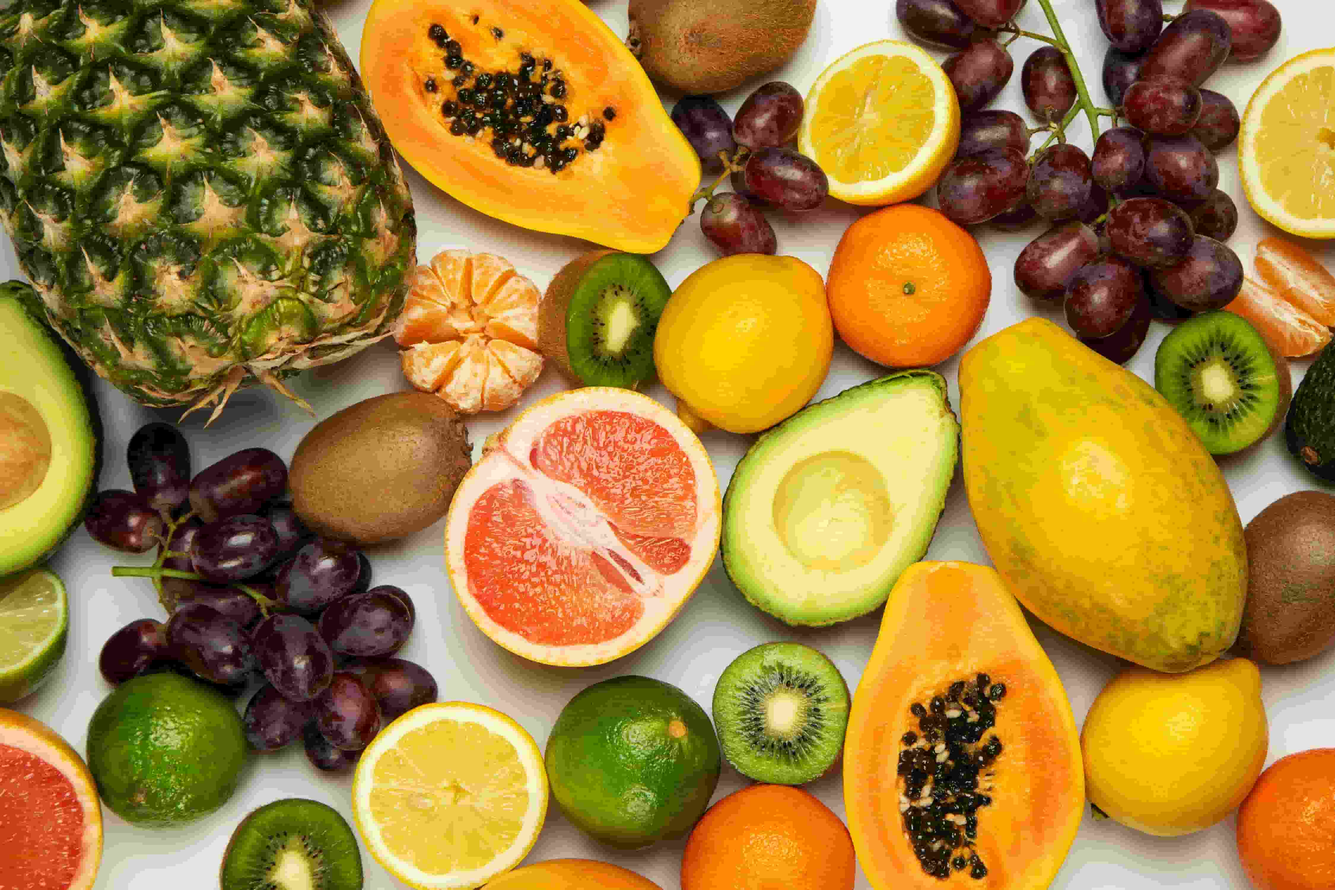
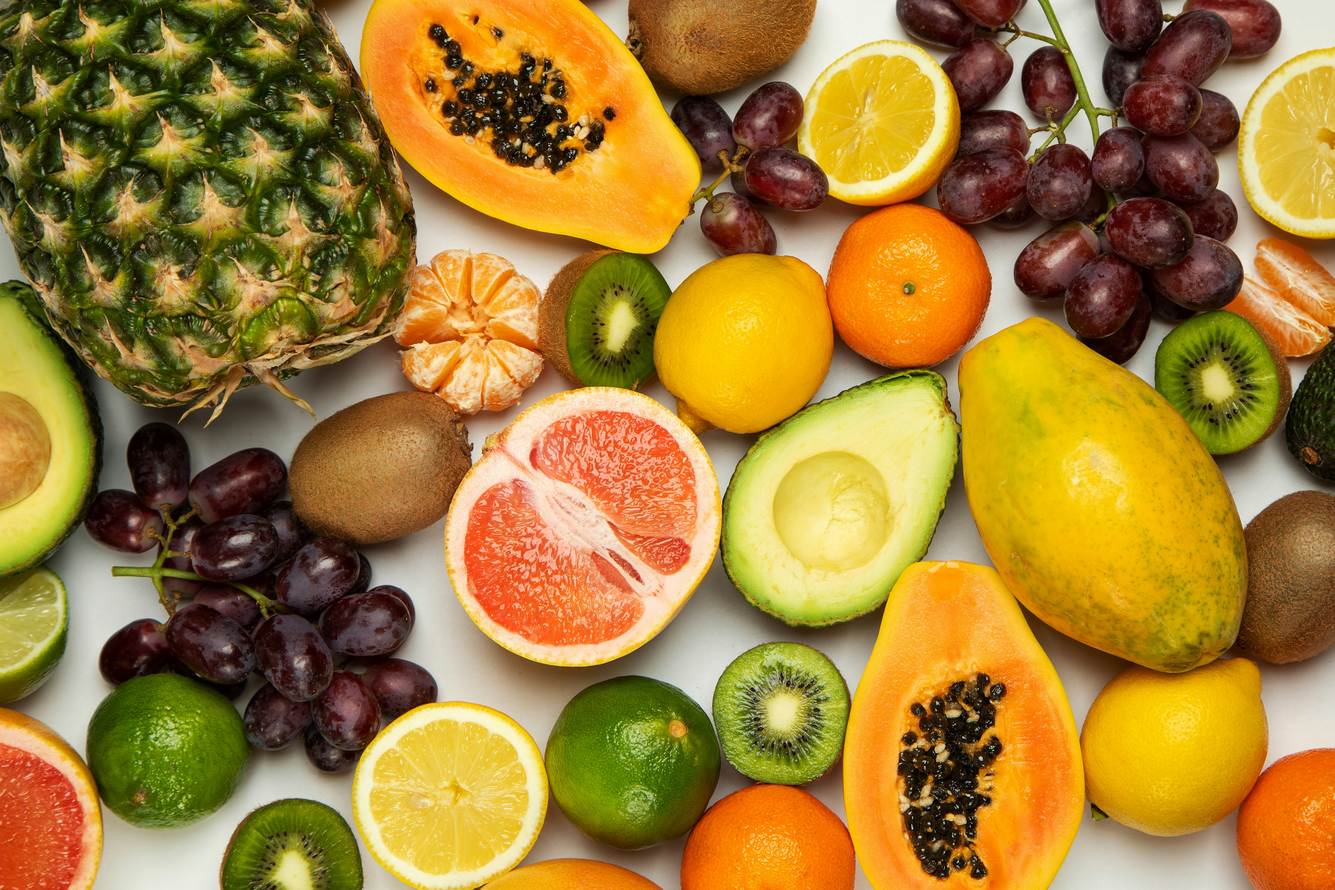
fixed lagging problem on home page

diff --git a/src/index.js b/src/index.js
@@ -126,25 +126,26 @@ export default words;
 
 //cards1
 import oranges1 from './assets/oranges-1.jpg';
-import pineapple1 from './assets/pineapple-1.jpg';
-import oranges2 from './assets/oranges-2.jpg';
-import fruits2 from './assets/fruits-2.jpg';
-import fruits3 from './assets/fruits-3.jpg';
+import oranges3 from './assets/oranges-3b.jpg';
+import pineapple1 from './assets/pineapple-2b.jpg';
+import lemons2 from './assets/lemons-2b.jpg';
+import fruits2 from './assets/fruits-2b.jpg';
+import fruits3 from './assets/fruits-3b.jpg';
 
 //cards2
 import cake1 from './assets/cake-1b.jpg';
 import pouring1 from './assets/pouring-1b.jpg';
-import icecream2 from './assets/icecream-2a.jpg';
-import smoothies1 from './assets/smoothies-1a.jpg';
-import wine1 from './assets/wine-1a.jpg';
+import icecream2 from './assets/icecream-2b.jpg';
+import smoothies1 from './assets/smoothies-1b.jpg';
+import wine1 from './assets/wine-1b.jpg';
 
 
 export const cardImages1 = [
-  oranges1,
-  oranges1,
-  oranges1,
-  oranges1,
-  oranges1,
+  oranges3,
+  pineapple1,
+  lemons2,
+  fruits2,
+  fruits3,
 
   // pineapple1,
   // oranges2,
@@ -153,10 +154,10 @@ export const cardImages1 = [
 ];
 export const cardImages2 = [
 cake1,
-cake1,
+icecream2,
 pouring1,
-cake1,
-cake1,
+smoothies1,
+wine1,
 
   // oranges1,
   // oranges1,
